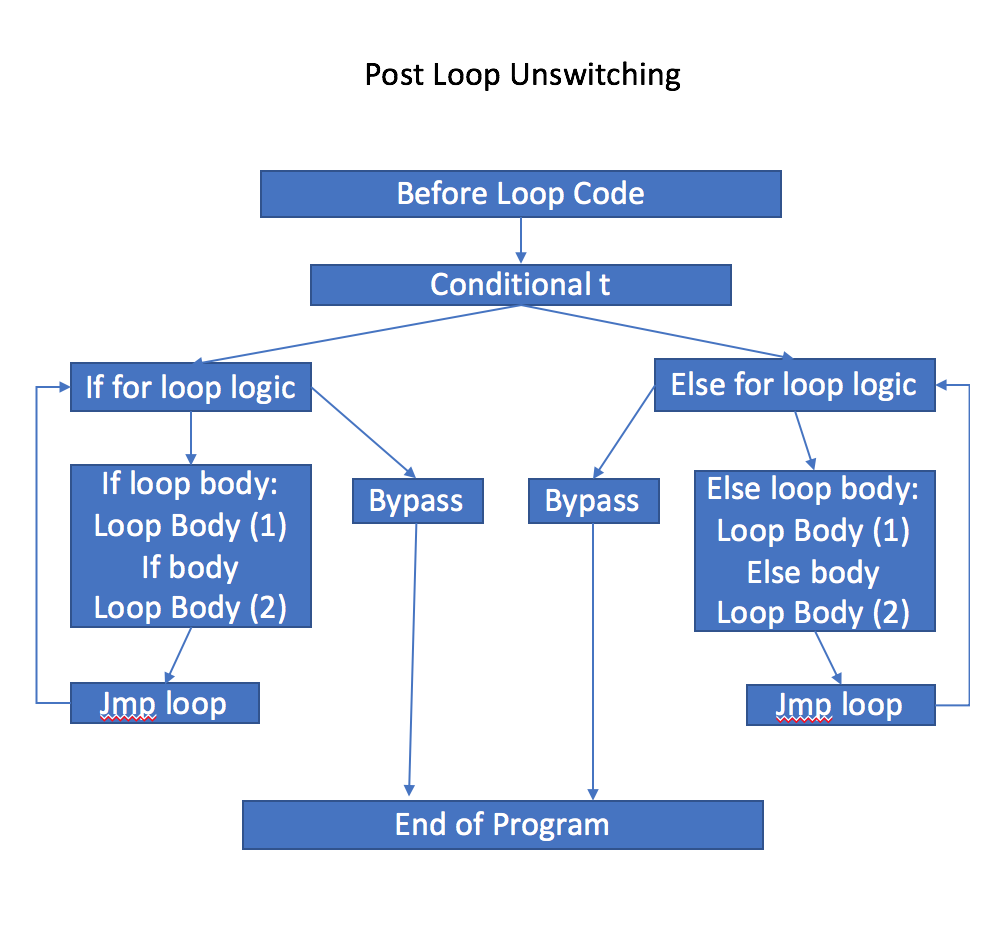
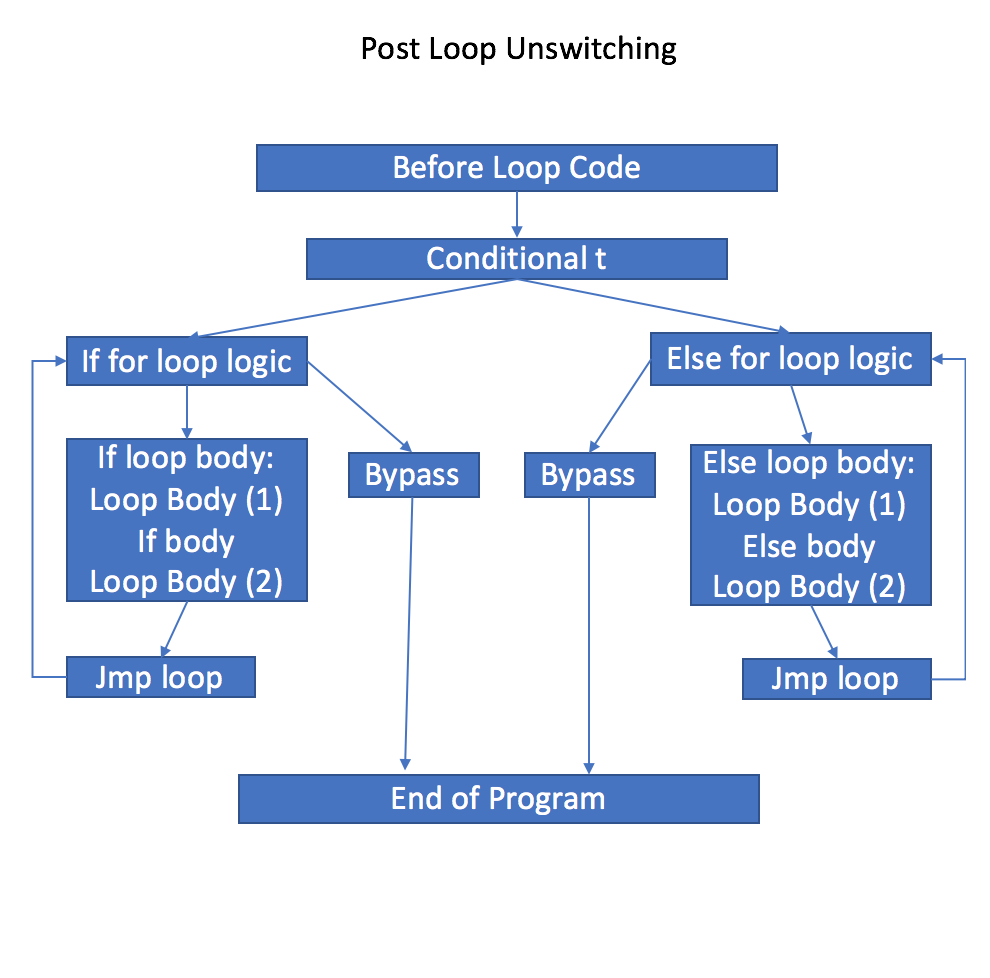
changes

diff --git a/content/blog/2019-10-23-loop-unswitching/index.md b/content/blog/2019-10-23-loop-unswitching/index.md
@@ -99,7 +99,7 @@ Now if $$v_t \not \in V_L$$, we can unswitch this loop.  In the case of multiple
 Once we have selected a subset of nodes in the CFG to be unswitched, we need to actually reorder the blocks.  At a high level, we implement the following reordering:
 
 
-< DIAGRAM >
+<img src="unswitched.png" style="width: 40%">
 
 In the above diagram, we have the following:
 * Before Loop Code:  This block represents all code before the start of the for loop
@@ -113,7 +113,9 @@ In the above diagram, we have the following:
 
 To implement unswitching, we want to move the ```Conditional t``` block outside the for loop, create branches for each destination (in Bril, we are limited to two branches), and replicate the contents inside of the loop.  We wish to do surgury in such a way to only to disrupt nodes involving the loop, leaving the rest of the CFG intact.  A high level control flow is as follows for post-unswitching operation:
 
-<< DIAGRAM >> 
+<img src="switched.png" style="width: 60%">
+
+
 In particular, we have the following blocks:
 * Before loop code: This is the same block as before and contains the contents of the program before we enter the loop
 * Conditional t:  This block contains one instruction, namely the branching instruction that involves the independent boolean.  Based on the value of the boolean, it connects to either the "if" or "else" blocks, each block containing its own for loop.
